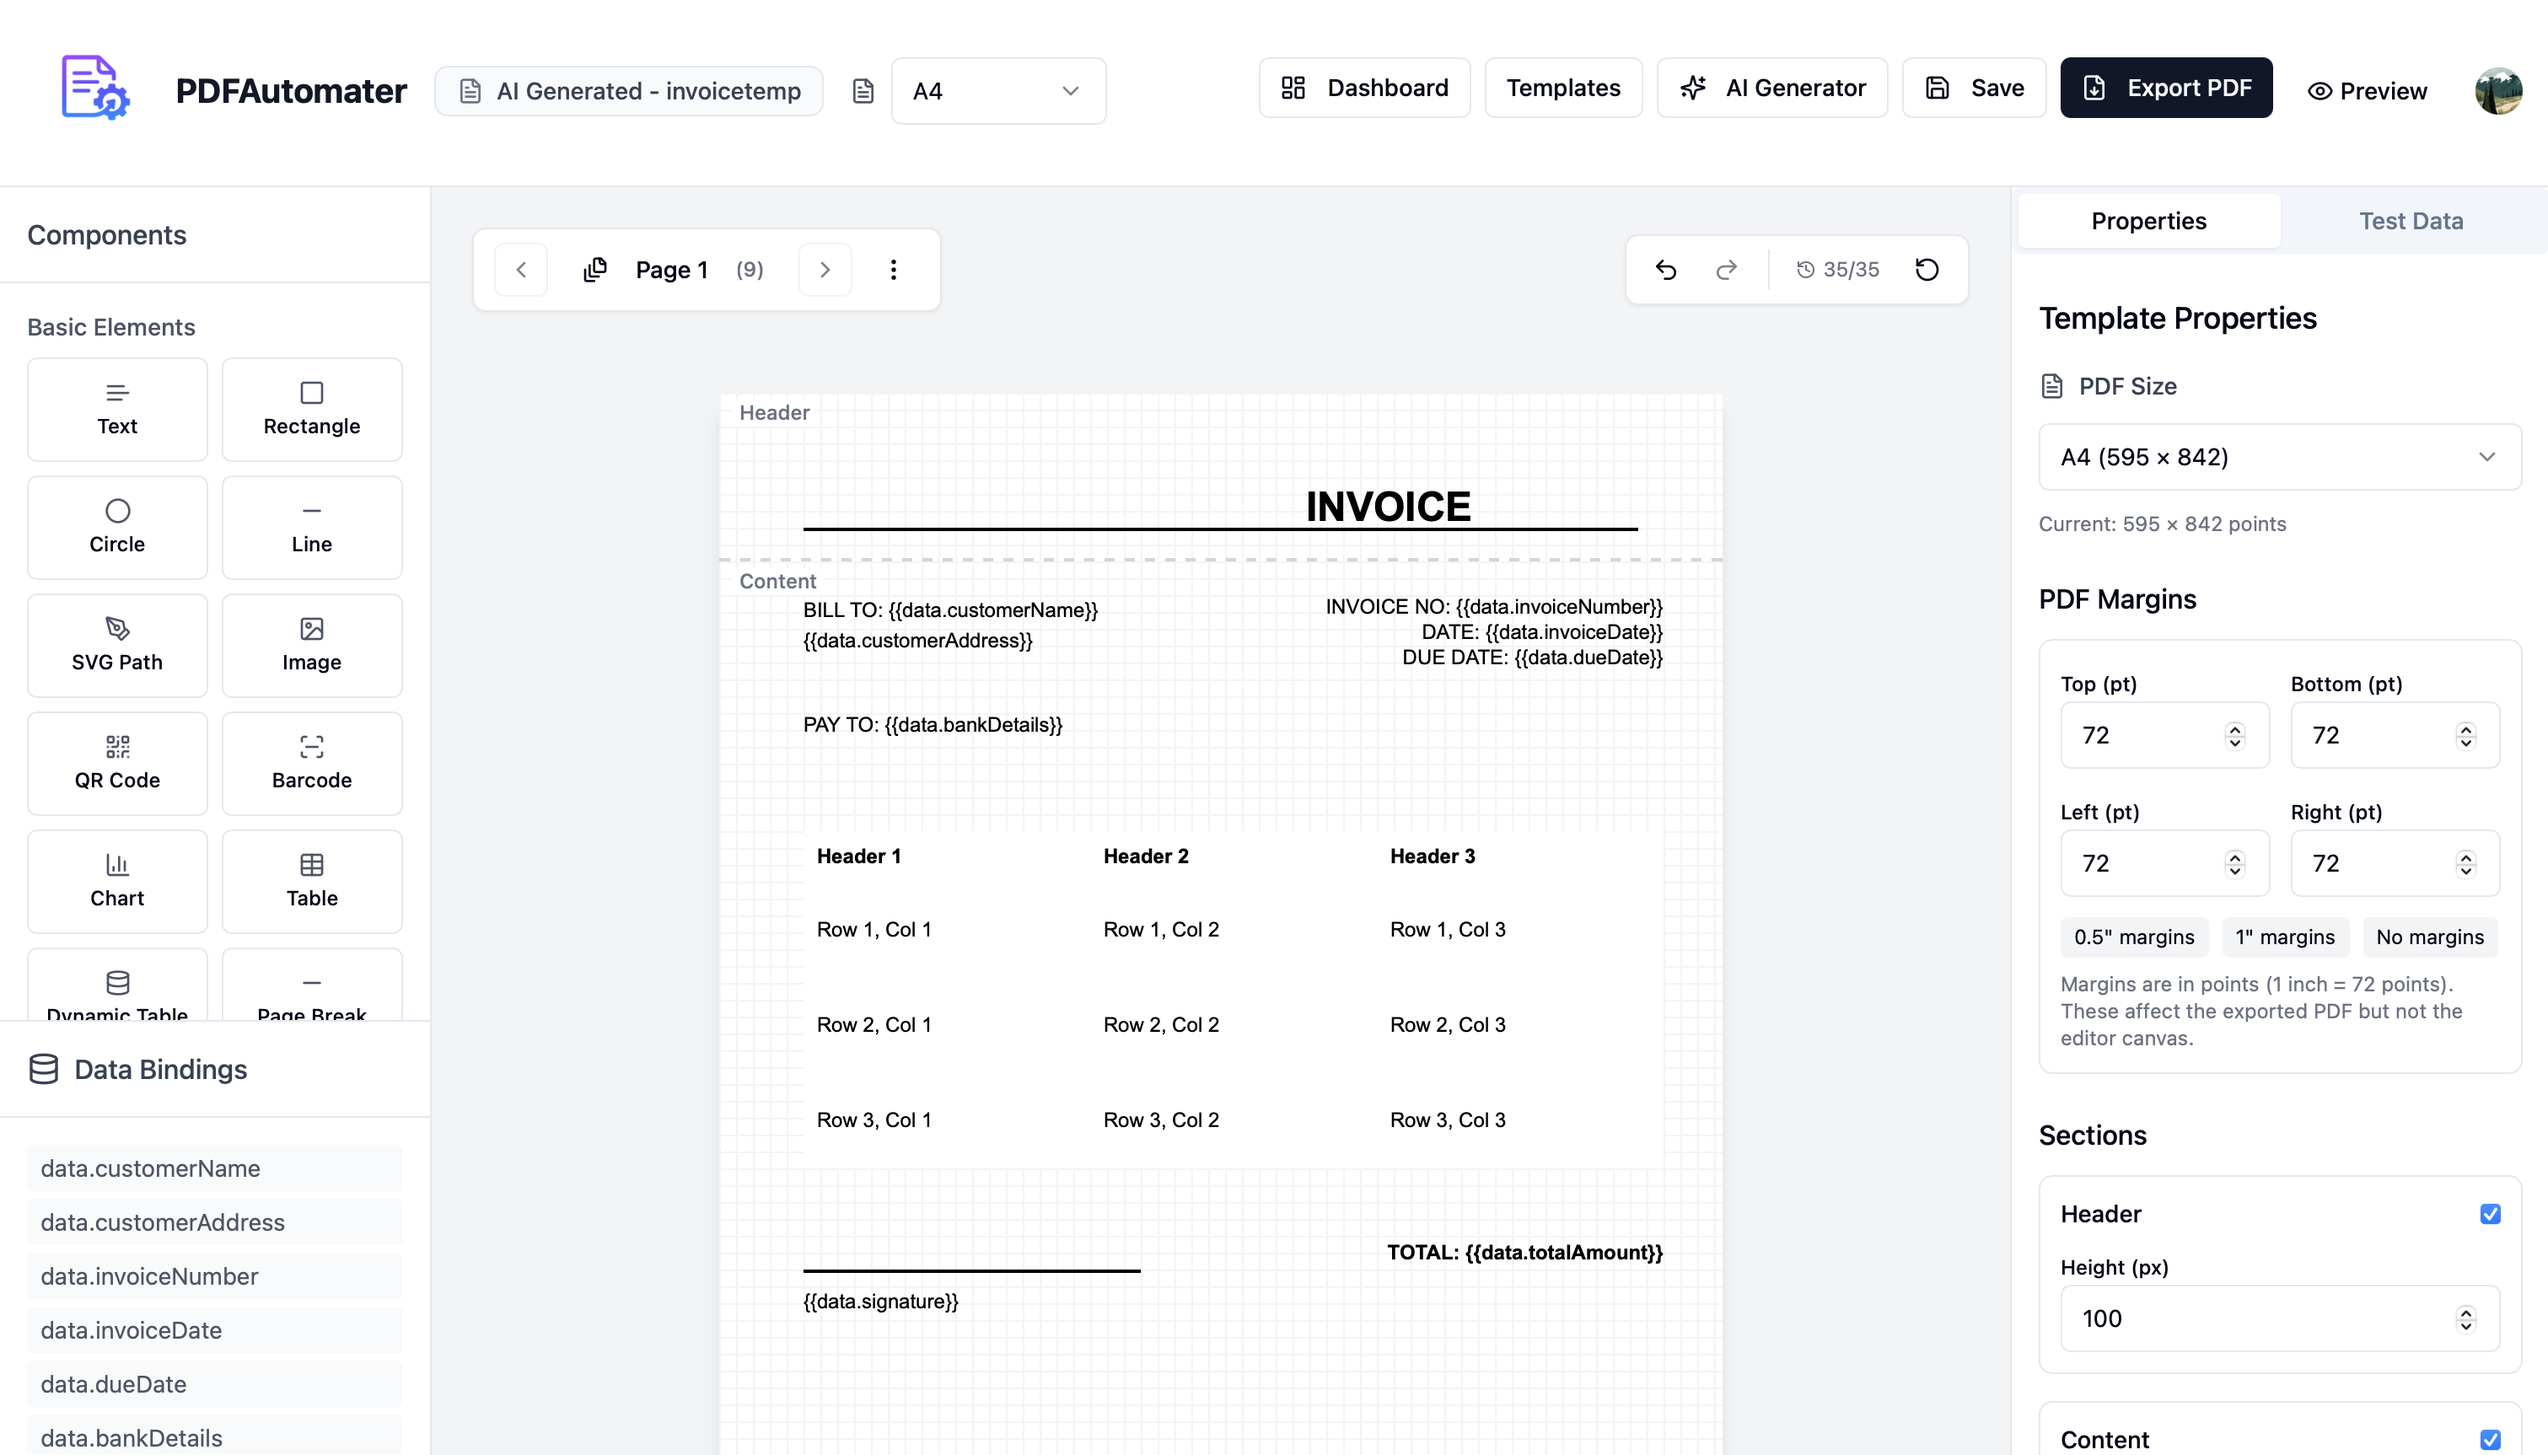
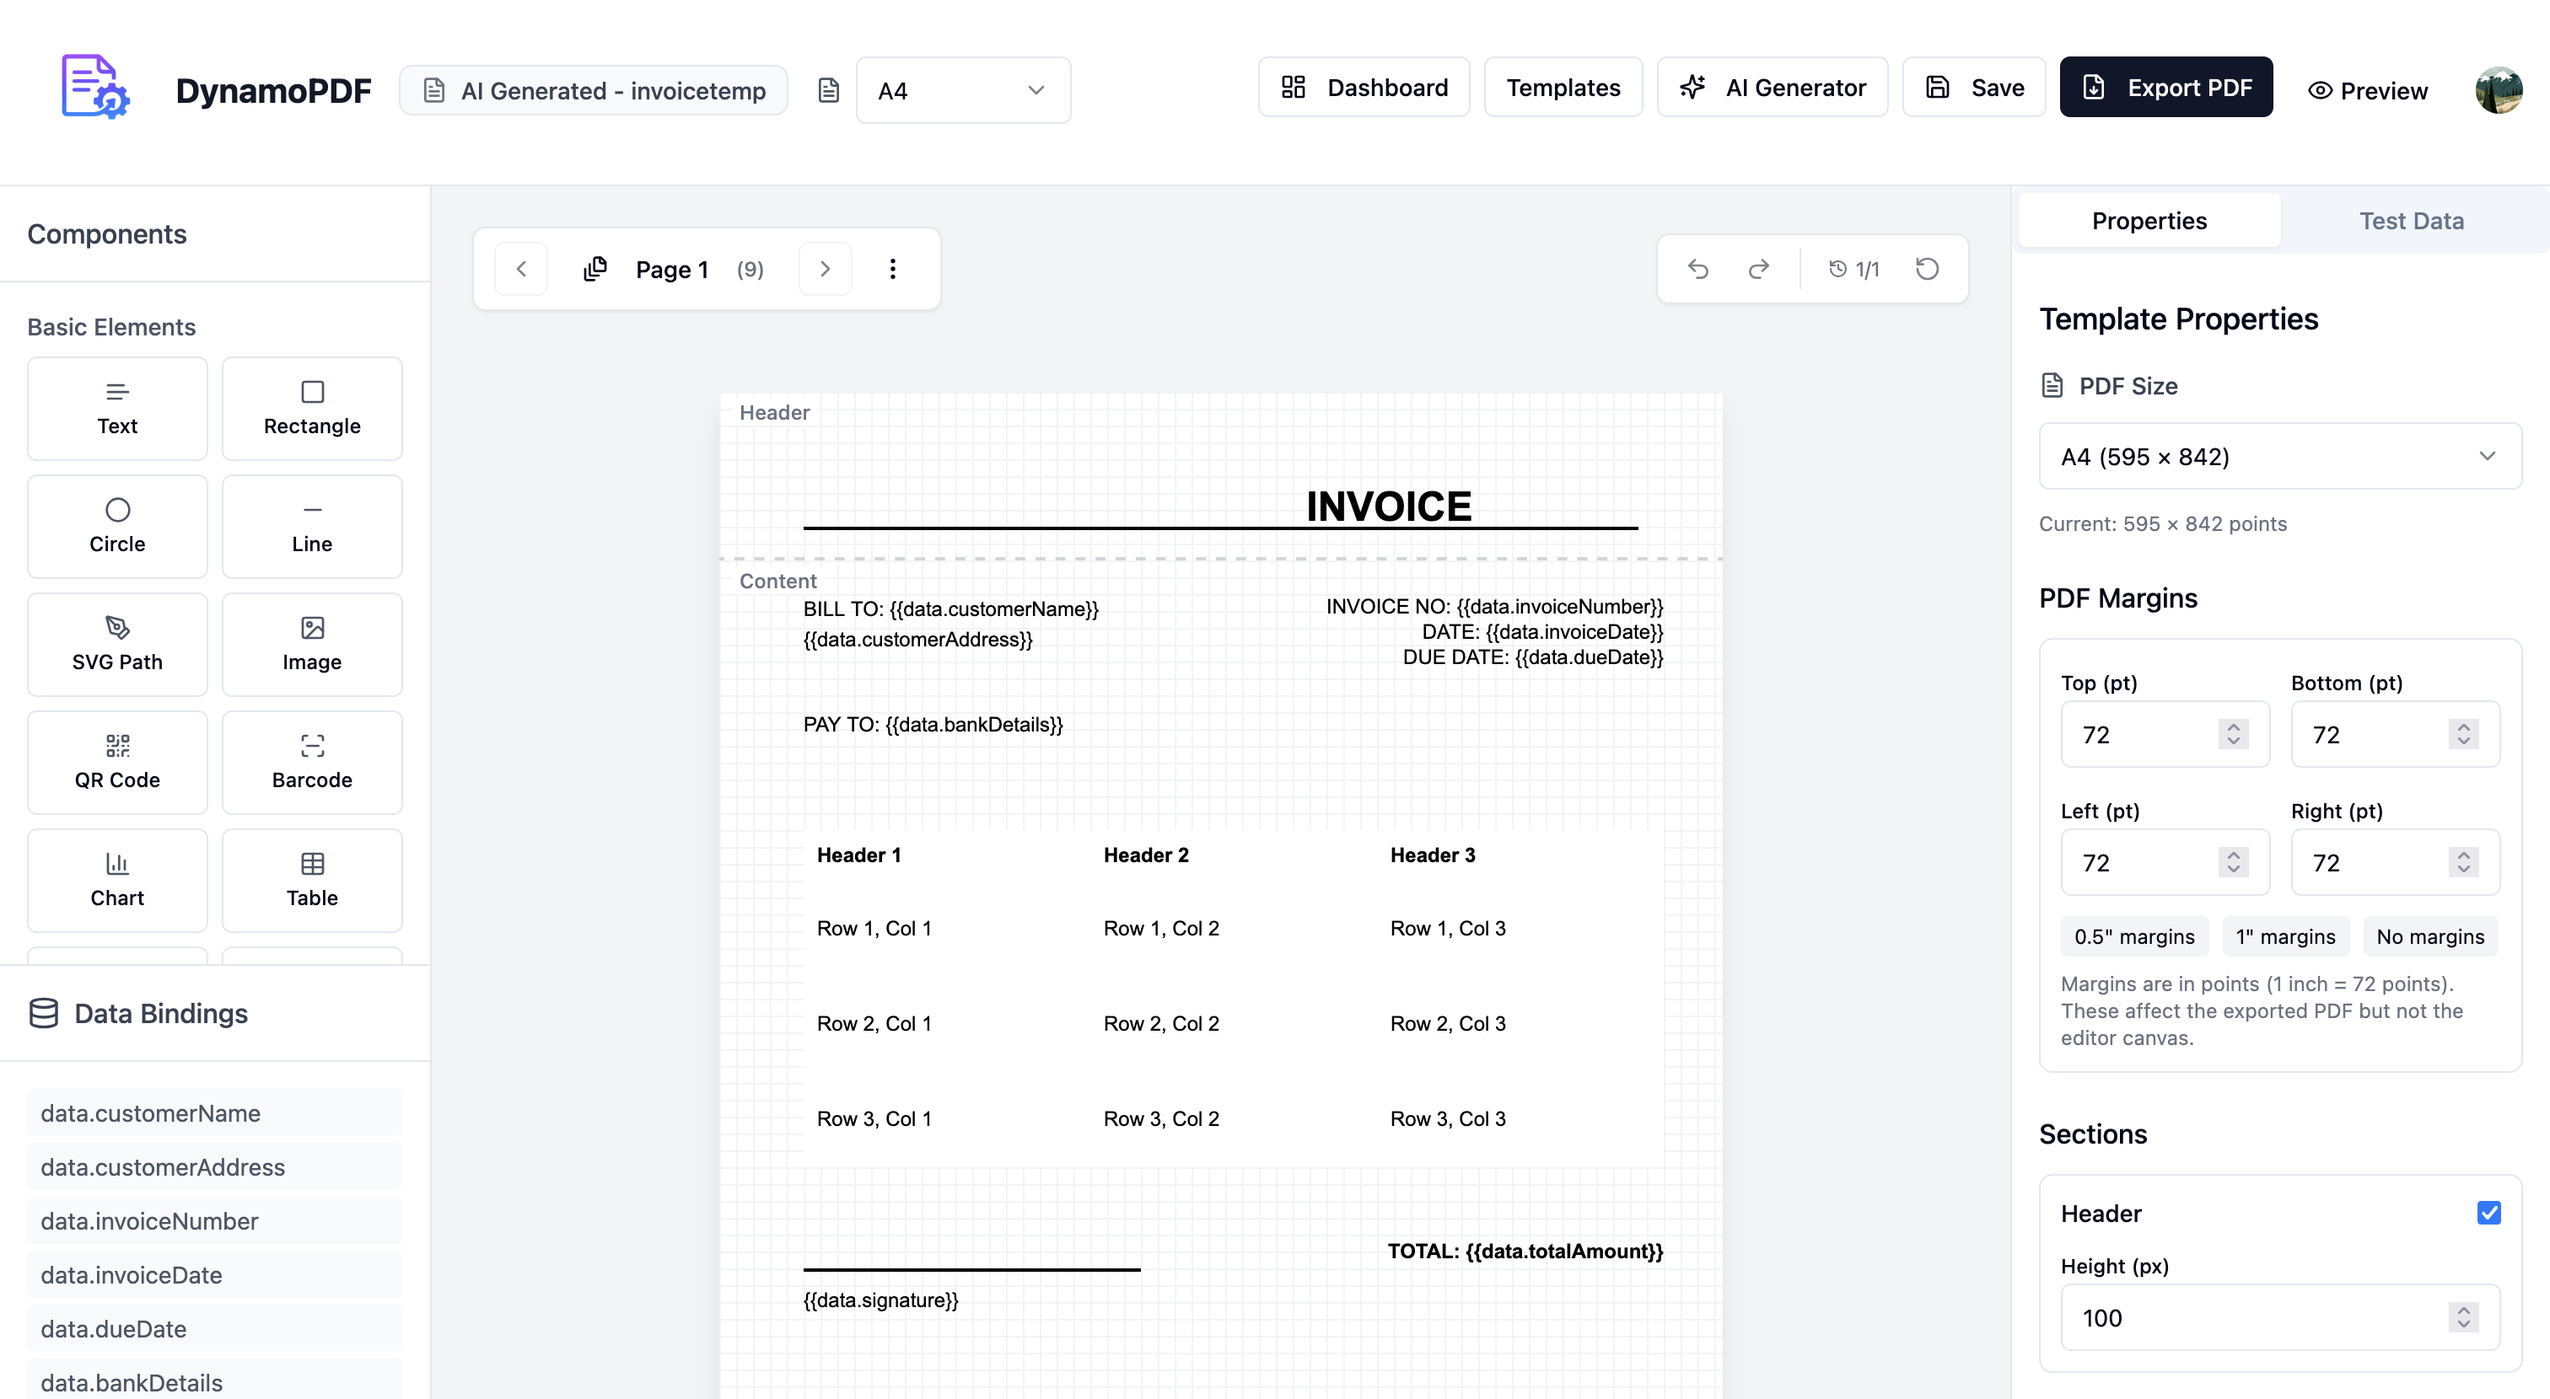
bg lighter and rebrand to dynamopdf

diff --git a/src/components/ModernHeader.tsx b/src/components/ModernHeader.tsx
@@ -31,7 +31,7 @@ const ModernHeader = (props: ModernHeaderProps) => {
           <div className="flex items-center space-x-1">
             {props.imageComponent}
             
-            <span className="text-2xl font-bold text-gray-800">PDFAutomater</span>
+            <span className="text-2xl font-bold text-gray-800">DynamoPDF</span>
           </div>
 
           {/* Desktop Navigation */}
@@ -59,13 +59,13 @@ const ModernHeader = (props: ModernHeaderProps) => {
           {/* Desktop Auth Buttons */}
           <div className="hidden md:flex items-center space-x-4">
             <a 
-              href="https://app.pdfautomater.com/signin" 
+              href="https://app.dynamopdf.com/signin" 
               className="text-gray-700 hover:text-blue-600 font-medium transition-colors duration-200"
             >
               Sign In
             </a>
             <a 
-              href="https://app.pdfautomater.com/signup" 
+              href="https://app.dynamopdf.com/signup" 
               className="bg-blue-600 hover:bg-blue-700 text-white px-6 py-2.5 rounded-lg font-medium transition-all duration-200 transform hover:scale-105"
             >
               Get Started
@@ -119,13 +119,13 @@ const ModernHeader = (props: ModernHeaderProps) => {
               </a>
               <div className="pt-3 border-t border-gray-200 flex flex-col space-y-2">
                 <a 
-                  href="https://app.pdfautomater.com/signin" 
+                  href="https://app.dynamopdf.com/signin" 
                   className="text-gray-700 hover:text-blue-600 font-medium py-2 px-4 rounded-lg hover:bg-gray-50 transition-colors duration-200"
                 >
                   Sign In
                 </a>
                 <a 
-                  href="https://app.pdfautomater.com/signup" 
+                  href="https://app.dynamopdf.com/signup" 
                   className="bg-blue-600 hover:bg-blue-700 text-white font-medium py-2 px-4 rounded-lg transition-colors duration-200 text-center"
                 >
                   Get Started

diff --git a/src/components/ModernHero.tsx b/src/components/ModernHero.tsx
@@ -6,7 +6,7 @@ interface ModernHeroProps {
 
 const ModernHero = (props: ModernHeroProps) => {
   return (
-    <section className="relative min-h-screen bg-gradient-to-br from-purple-100 via-indigo-100 to-violet-100 overflow-hidden">
+    <section className="relative min-h-screen bg-gradient-to-br from-white via-purple-50 to-indigo-50 overflow-hidden">
       {/* Background decorative elements */}
       <div className="absolute inset-0">
         <div className="absolute top-20 left-10 w-72 h-72 bg-blue-500/20 rounded-full blur-3xl"></div>
@@ -114,7 +114,7 @@ const ModernHero = (props: ModernHeroProps) => {
                   <div className="w-3 h-3 bg-yellow-400 rounded-full"></div>
                   <div className="w-3 h-3 bg-green-400 rounded-full"></div>
                 </div>
-                <div className="ml-4 text-sm text-gray-700">PDFAutomater - PDF Editor</div>
+                <div className="ml-4 text-sm text-gray-700">DynamoPDF - PDF Editor</div>
               </div>
               
               {/* Actual app screenshot */}
